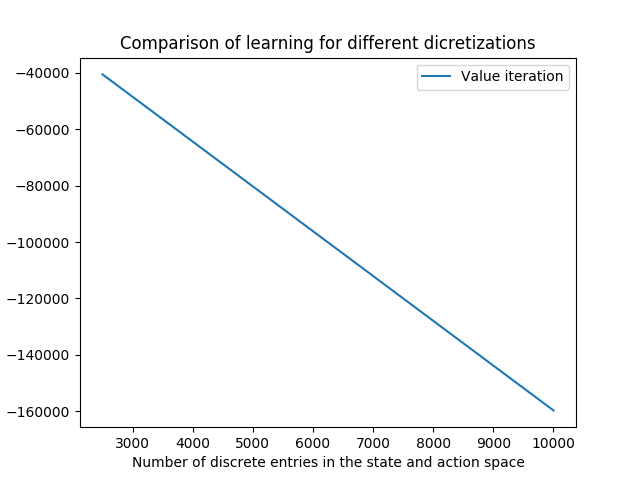
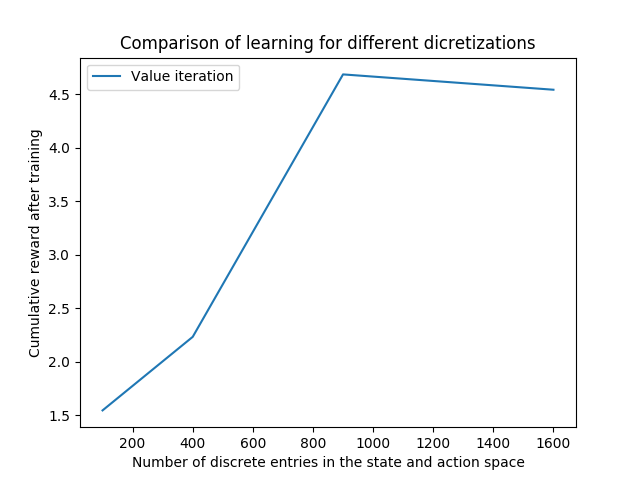
Value iteration seems to work. TODO: Different discount factor and discretizations

diff --git a/cumul_rew_measure.py b/cumul_rew_measure.py
@@ -12,12 +12,37 @@ from dyn_prog import DynProg
 from policy import RandomExplorationPolicy
 
 
-def compare_rewards(env_name, discrets):
+def plot_results(algo_name, env_name, cumul_rew_list, n_states, n_acts):
+    """
+    Plots cumulative rewards for a given algo for different state and action space discretizations
+    :param algo_name: Name of the algorithm
+    :param env_name: Name of the environment
+    :param cumul_rew_list:
+    :param n_acts: List with different numbers of states
+    :param n_acts: List with different numbers of actions
+    """
+    # Iterate over number of actions and plot curves with values for different state numbers
+    for na in range(len(cumul_rew_list)):
+        plt.plot(n_states, cumul_rew_list[na], label=str(n_acts[na]) + " actions")
+    plt.title("Comparison of " + algo_name + " results for different discretizations on "+env_name)
+    plt.xlabel("Number of discrete entries in the state space")
+    plt.ylabel("Cumulative reward after training")
+    plt.legend()
+
+    # Save plot
+    fig = plt.gcf()
+    fig.savefig('figures/cumul_rew_' + algo_name + '_comparison_' + env_name + '.png')
+
+    # Show plot
+    plt.show()
+
+
+def compare_rewards(env_name, n_states, n_acts):
     """
     Trains via Value and Policy Iteration on different discretizations and plots cumulative rewards
     :param env_name: Name of the current environment
-    :param discrets: Contains different numbers of discrete entries in the state and action space
-    (Each has to return an integer when sqrted!)
+    :param n_states: List with state space discretizations
+    :param n_acts: List with action space discretizations
     """
     print(env_name)
     # Open dynamics and reward NNs
@@ -25,51 +50,39 @@ def compare_rewards(env_name, discrets):
     dynamics = pickle.load(open("nets/dyn_" + env_name + ".fitnn", "rb"))
 
     env = gym.make(env_name)
-    print("Reward range: ",env.reward_range)
+    print("Reward range: ", env.reward_range)
     policy = RandomExplorationPolicy()
-
-    """
-    r = -np.inf
-    act = env.action_space
-    while r<0:
-        s = env.reset()
-        a = random.sample(range(-15, 15), 1)
-        s_n, r, _, _ = env.step(a)
-        print(r)
-    """
 
     cumul_rew_list1, cumul_rew_list2 = [], []
 
-    for discret in discrets:
-        print("Number of discrete entries: ", discret)
-        # Train agent
-        agent = DynProg(policy, env, reward, dynamics, discret)
-        Vk1, cumul_rew1 = agent.train_val_iter()
-        cumul_rew_list1.append(cumul_rew1)
-        #Vk2, pol2, cumul_rew2 = agent.train_pol_iter()
-        #cumul_rew_list2.append(cumul_rew2)
+    for na in n_acts:
+        print("Number of discrete actions: ", na)
+        cumul_rew_states1, cumul_rew_states2 = [], []
+        for ns in n_states:
+            print("Number of discrete states: ", ns)
 
-    # Make it pretty!
-    states = [discret[0] for discret in discrets]
-    plt.plot(states, cumul_rew_list1, label="Value iteration")
-    #plt.plot(discrets, cumul_rew2, label="Policy iteration")
-    plt.title("Comparison of learning for different dicretizations")
-    plt.xlabel("Number of discrete entries in the state and action space")
-    plt.ylabel("Cumulative reward after training")
-    plt.legend()
+            # Train agent
+            agent = DynProg(policy, env, reward, dynamics, (ns, na))
+            _, cumul_rew1 = agent.train_val_iter()
+            cumul_rew_states1.append(cumul_rew1)
 
-    # Save plot
-    fig = plt.gcf()
-    fig.savefig('figures/cumul_rew_comparison_' + env_name + '.png')
+            # Vk2, pol2, cumul_rew2 = agent.train_pol_iter()
 
-    # Show plot
-    plt.show()
+        cumul_rew_list1.append(cumul_rew_states1)
+        # cumul_rew_list2.append(cumul_rew_states2)
+
+    # Value iteration plot
+    plot_results("value_iteration", env_name, cumul_rew_list1, n_states, n_acts)
+
+    # Policy iteration plot
+    #plot_results("policy_iteration", env_name, cumul_rew_list2)
 
 
 # Pendulum
-#compare_rewards("Pendulum-v2", [(100, 16), (400, 16)])
+compare_rewards("Pendulum-v2", [100, 400, 900, 1600, 2500], [4, 8, 16, 32])
+#compare_rewards("Pendulum-v2", [4, 9, 16, 25], [2, 4, 8])
 
 # Qube
-compare_rewards("Qube-v0", [(24964, 16)])
+#compare_rewards("Qube-v0", [100, 400, 900, 1600, 2500], [4, 8, 16, 32])
 
-#TODO: Plot best results of Value fun and Policy on Pendulum-v2
+# TODO: Plot best results of Value fun and Policy on Pendulum-v2

diff --git a/dyn_prog.py b/dyn_prog.py
@@ -32,7 +32,7 @@ class DynProg:
         Value Iteration algo
         :param n_states:
         :param discount:
-        :return: Vk is the converged V function and policy is the optimal policy based on Vk
+        :return: Vk is the converged V function and cumul_reward is the normalized cumulative reward
         """
         # Init.
         oldvalues = np.zeros((self.n_states,))
@@ -43,30 +43,25 @@ class DynProg:
             print("Iteration ", iter)
             newvalues = np.zeros((self.n_states,))
             # Iterate over states
-            for state, i in zip(self.states, range(self.states.shape[0])):
+            for state, i in zip(self.states, range(self.n_states)):
                 Q_all = []
                 # Iterate over actions
                 for action in self.actions:
                     # Predict next state and reward for given action
                     nxt_state = self.dynamics.predict(torch.Tensor([state[0], state[1], action]))
                     reward = self.reward.predict(torch.Tensor([state[0], state[1], action]))
+                    reward = np.abs(reward ** -1)
 
                     # Find nearest discrete state for predicted next state
-                    idx_old = self.find_nearest(self.states, state)
                     idx = self.find_nearest(self.states, nxt_state)
-                    """
-                    print("Current:",idx_old)
-                    print("Next:",idx)
-                    print("----")
-                    """
 
                     # Compute Q and append
                     Q_all.append(reward + discount * oldvalues[idx])
 
                 newvalues[i] = np.max(np.array(Q_all))
 
-            print(np.sum(newvalues))
-            cumul_reward.append(np.sum(newvalues))
+            cumul_reward.append(np.sum(newvalues) / self.n_states)
+            #print(cumul_reward[iter])
 
             # Convergence check
             if (np.abs(oldvalues - newvalues) < 0.1).all():
@@ -75,7 +70,7 @@ class DynProg:
             oldvalues = newvalues[:]
             iter += 1
 
-        cumul_reward = np.sum(np.array(cumul_reward))
+        cumul_reward = np.sum(np.array(cumul_reward)) / iter if iter > 0 else np.sum(np.array(cumul_reward))
         return newvalues, cumul_reward
 
     def train_pol_iter(self, n_states=10000, discount=0.1):

diff --git a/main.py b/main.py
@@ -24,6 +24,7 @@ dynamics = FitNN(s_dim+1, s_dim, env, True)
 # Sample training data
 print("Rollout policy...")
 points = reward.rollout(15000) # See plots in figures dir for optimal number of samples
+max_rew = np.max([point[3] for point in points])
 
 # Learn dynamics and rewards
 reward.learn(points[:2000], 256, 64)
